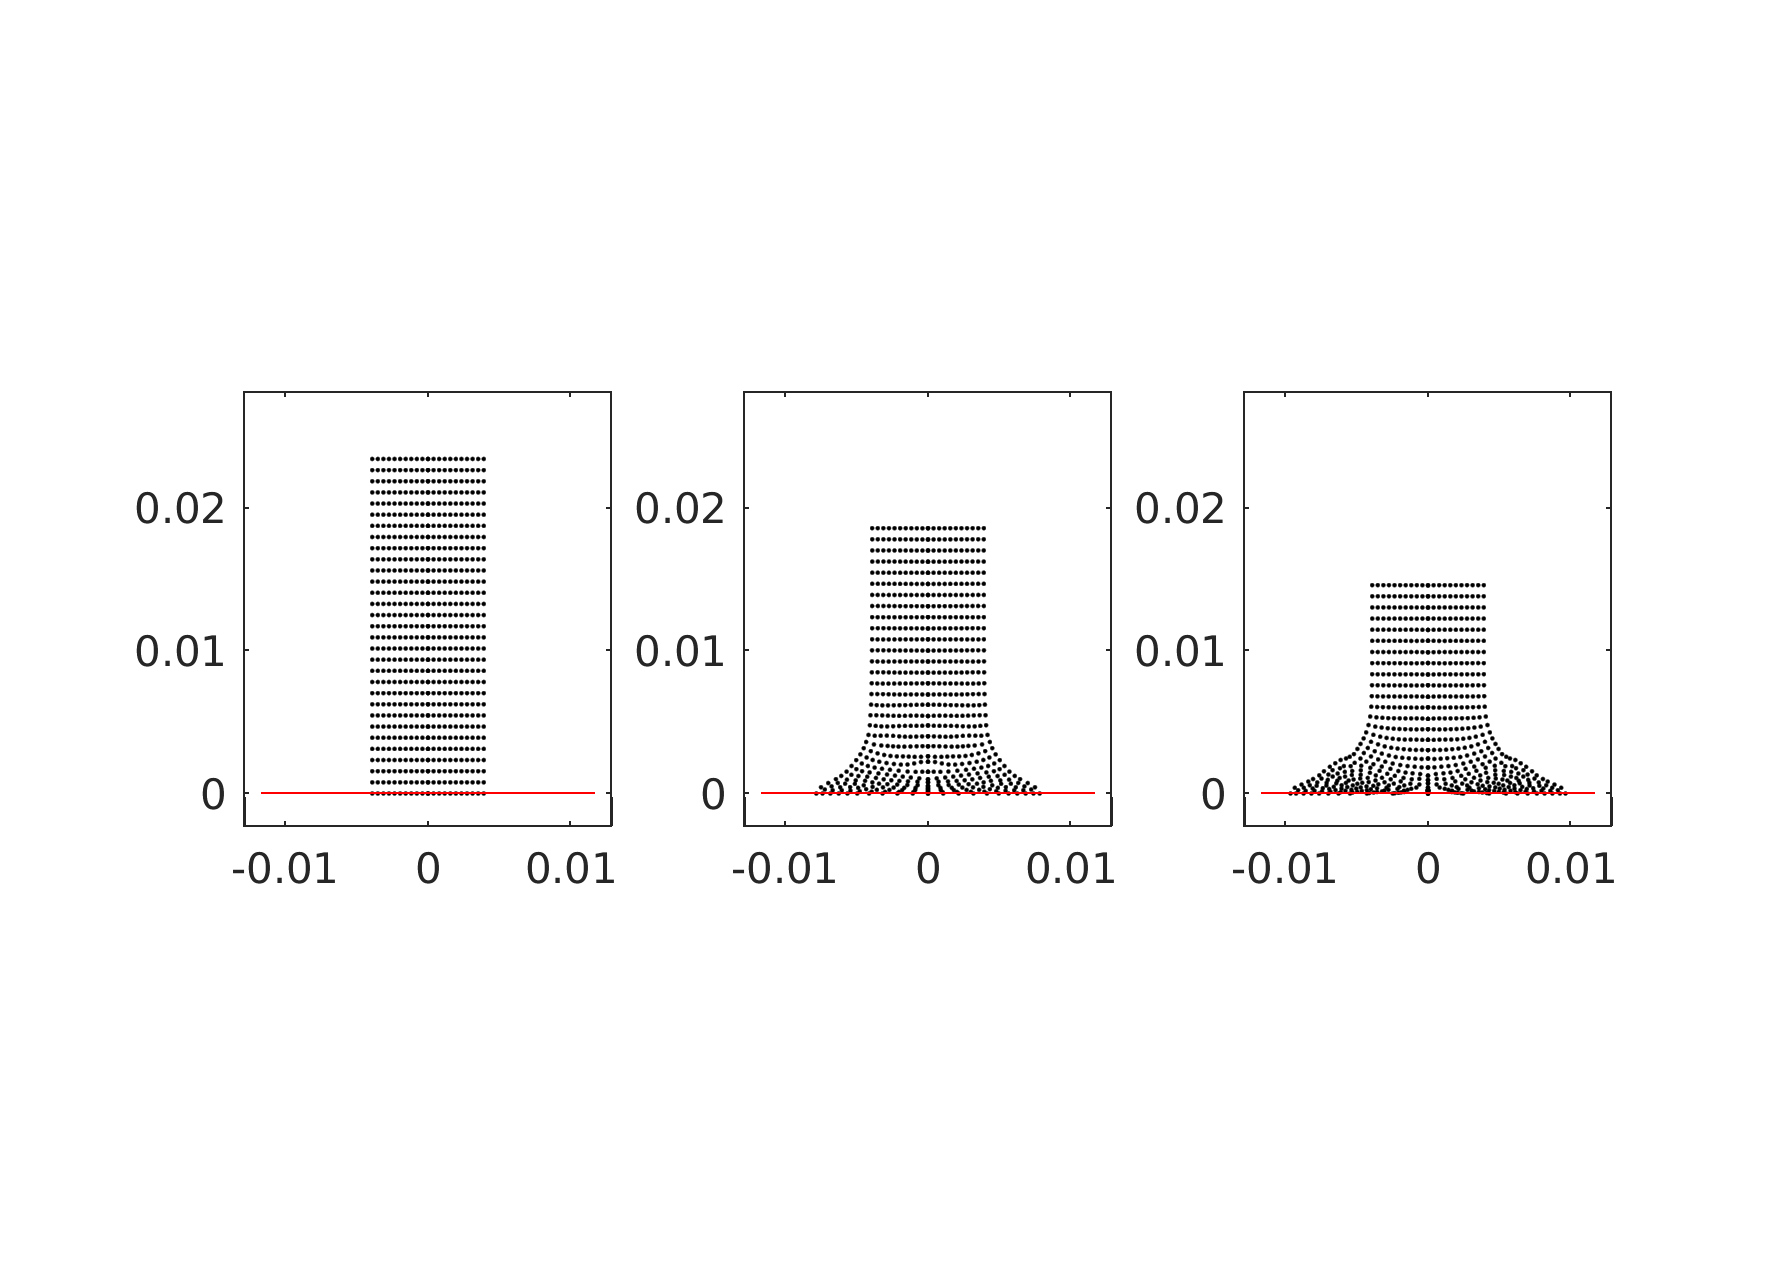
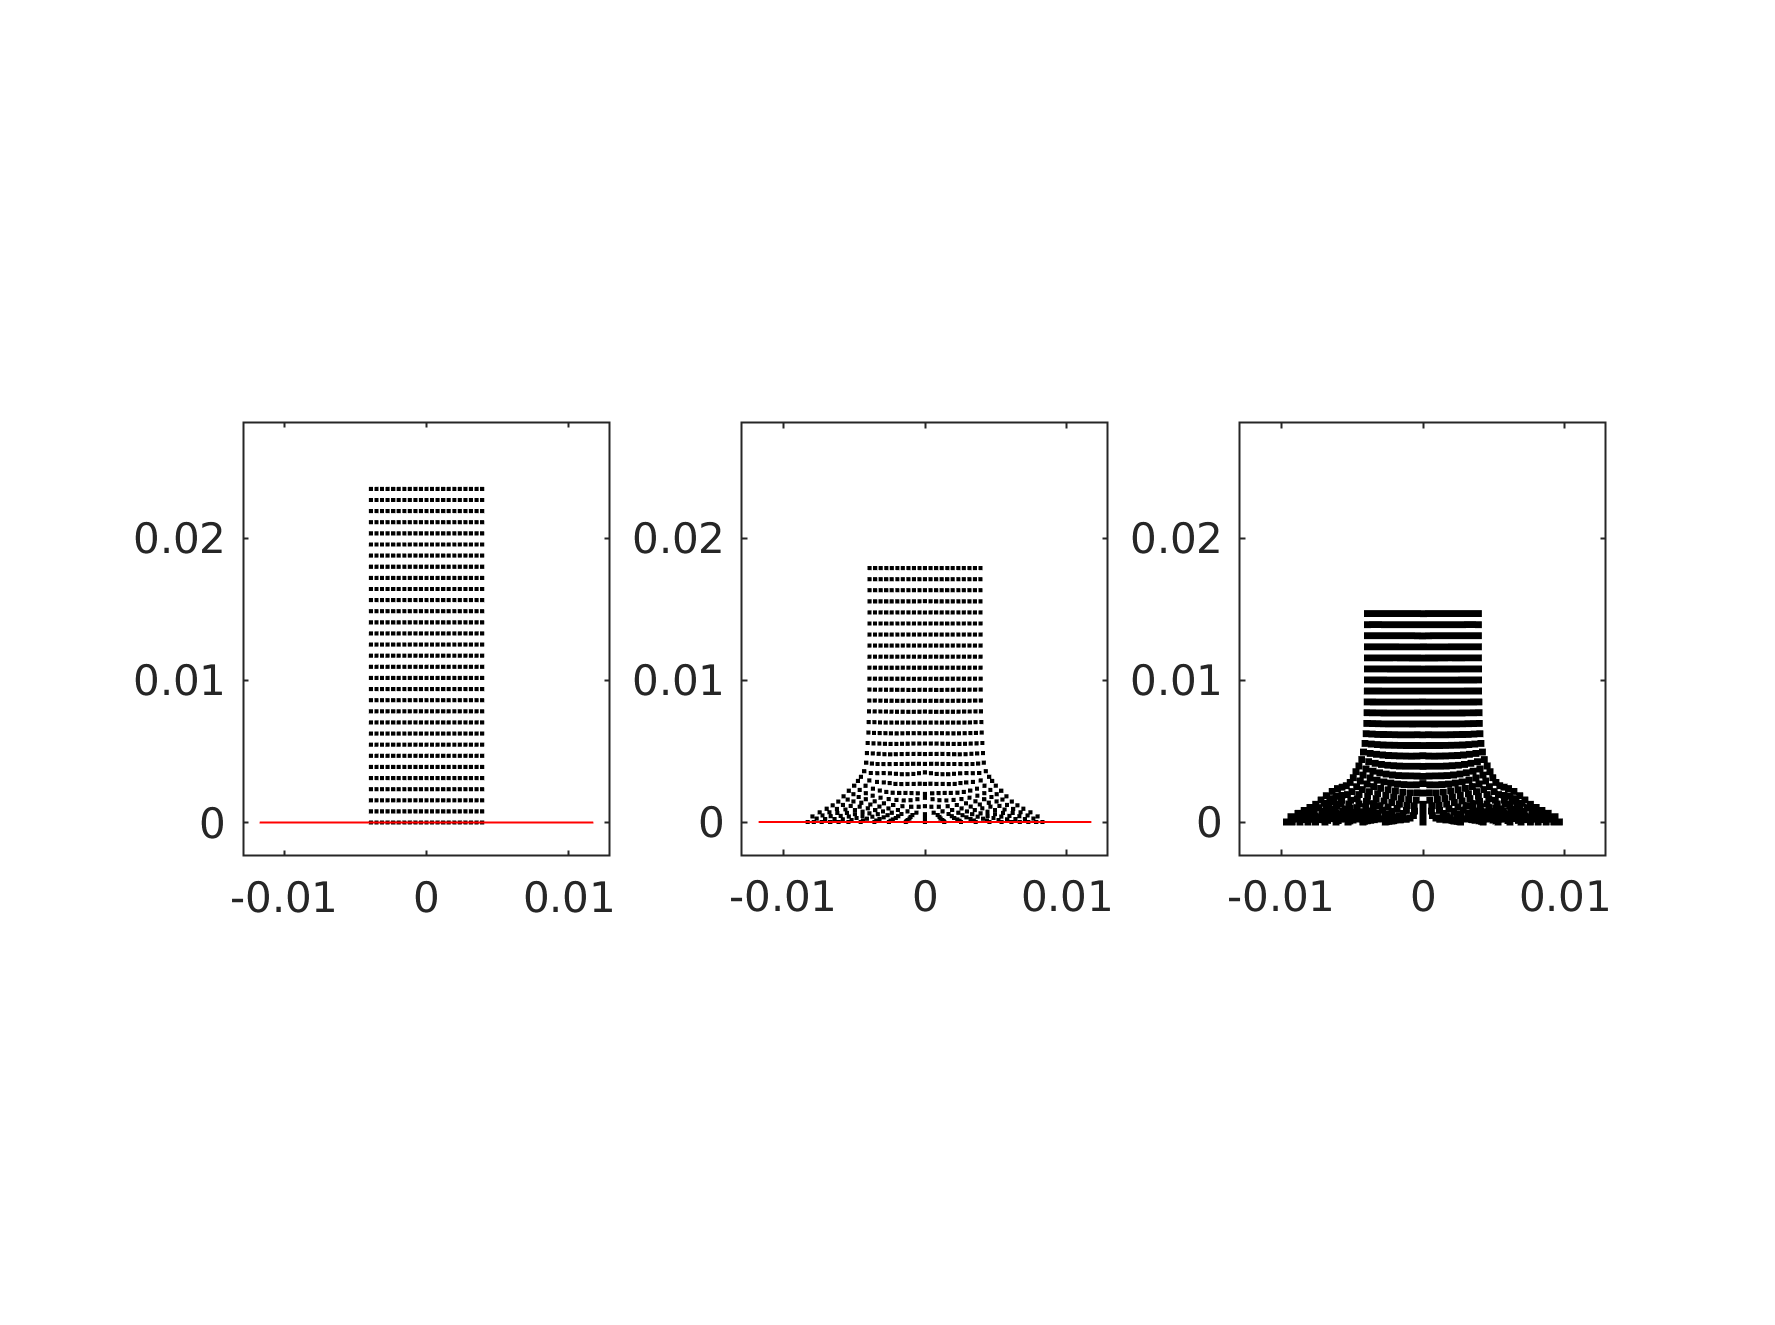
new problems

diff --git a/problems/taylor_bar/taylor_bar.c b/problems/taylor_bar/taylor_bar.c
@@ -55,17 +55,21 @@ const double tMax = 10;
 double deltaT = 1e-11;
 
 // Meshfree
-const double dmax = 4;
-const int constant_support_size = 1;
+const double dmax = 2.5;
+const int constant_support_size = 0;
 const int is_stabalised = 0;
 char * basis_type = "linear";
 char * weight = "cubic";
-char * kernel_shape = "radial";
+char * kernel_shape = "rectangular";
 
-
+const double dmax_x = 1.5;
+const double dmax_y = 1.5;
 
 // writing files
-const int  writeFreq = 2000;
+const int  writeFreq = 200;
+
+double R_X = 3*0.000521;
+double R_Y  = 3*0.000782;
 
 
 char * MATERIAL_NAME = "J2";
@@ -141,16 +145,23 @@ int main(int argc, char** argv) {
 
 	// shape function parameters
 	VEC * dI = v_get(xI->m);
-
+	double * dmax_tensor = malloc(2*sizeof(double));
+	dmax_tensor[0] = dmax_x;
+	dmax_tensor[1] = dmax_y;
 	// meshfree domain
 	meshfreeDomain mfree = {.nodes = xI, .di = dI, .num_nodes = xI->m, .dim = dim, .IS_AXI = is_AXI,
-		.weight_function = weight, .kernel_shape = kernel_shape, 
+		.weight_function = weight, .kernel_shape = kernel_shape, .dmax_tensor = dmax_tensor,
 		.basis_type = basis_type,.is_constant_support_size = constant_support_size,
 		.dmax_radial = dmax};
 	
 	setDomain(&mfree);
 
+	for ( int i = 0 ; i < mfree.num_nodes ;i++)
+	{
+		mfree.di_tensor->me[i][0] = R_X;
+		mfree.di_tensor->me[i][1] = R_Y;
 
+	}
 	
 	/* ------------------------------------------*/
 	/* ------------------SCNI--------------------*/
@@ -496,7 +507,28 @@ int main(int argc, char** argv) {
 			char filename[50];
 			snprintf(filename, 50, "displacement_%d%s",fileCounter,".txt");
 			mat2csv(updatedNodes,"./Displacement",filename);
-			fileCounter++;	
+
+			snprintf(filename, 50, "MaterialPoints/material_%d%s",fileCounter,".csv");
+
+			fp = fopen(filename,"w");
+				fprintf(fp,"x,y,z,s11,s22,s12,DEPS\n");
+
+			for (int i = 0 ; i < numnodes ; i++)
+			{
+				double s11 = state_n_1[i]->sigma->me[0][0];
+				double s22 = state_n_1[i]->sigma->me[1][1];
+				double s12 =state_n_1[i]->sigma->me[0][0];
+				double DEPS = state_n_1[i]->Deps;
+
+
+			fprintf(fp,"%lf,%lf,%lf,%lf,%lf,%lf,%lf\n",updatedNodes->me[i][0],updatedNodes->me[i][1],0.00,
+			s11,s22,s12,DEPS
+			);
+
+			}
+			fclose(fp);
+
+			fileCounter++;
 
 		}
 		/* ------------------------------------------*/

diff --git a/MFREEX/src/Material/Plasticity/j2_plasticity.c b/MFREEX/src/Material/Plasticity/j2_plasticity.c
@@ -23,6 +23,8 @@ int j2_plasticity(state_variables * stateNew, state_variables * stateOld, VEC * 
 	double mu = params->ve[1];
 	double sigma_yield = params->ve[2];
 
+	int dim = stateNew->d->m;
+
 	// Initial variables
 	MAT * d_n_1 = stateNew->d;
 	MAT * sigma_n_1_t = stateNew->m_temp1;
@@ -98,6 +100,10 @@ int j2_plasticity(state_variables * stateNew, state_variables * stateOld, VEC * 
 		m_sub(sigma_n_1_t,delta_sigma,sigma_n_1);
 
 		// Find increment in plastic strain
+
+		stateNew->Deps += delta_gamma * ROOT_2_OVER_3;
+
+
 
 			// Find deviatoric trial stress
 		double trace_sigma= sigma_n_1->me[0][0]+sigma_n_1->me[1][1] + sigma_n_1->me[2][2];

diff --git a/matlab/taylor_bar/Processing_graph.m b/matlab/taylor_bar/Processing_graph.m
@@ -1,0 +1,40 @@
+clear all
+close all 
+
+path = './../../build/bin/taylor_bar/Displacement';
+
+addpath(path)
+displacementdir = path ;
+d = dir(displacementdir);
+d1 = dir([displacementdir,'*.txt']);
+numFiles = size(d,1) -3 ;
+
+plotFiles = ceil(linspace(1,numFiles,30));
+A = [];
+t_max = 0.000051*10^6;
+figure
+for i = 1:length(plotFiles)
+    
+    
+% second plot
+filename = strcat(path,'/displacement_',num2str(plotFiles(i)),'.txt');
+disp = csvread(filename);
+
+y = max(disp(:,1))*100;
+
+
+t = (t_max/(length(plotFiles)-1))*(i-1);
+
+A = [A;t,y];
+
+
+
+
+hold on
+plot(t,y,'b.');
+
+
+  
+end
+
+xlim([0,t_max])

diff --git a/matlab/taylor_bar/Processing.m b/matlab/taylor_bar/Processing.m
@@ -64,13 +64,13 @@ disp = csvread(filename);
 
 
 subplot(1,3,3)       % add first plot in 2 x 2 grid
-plot(disp(:,1),disp(:,2),'k.','markersize',3)           % line plot
+plot(disp(:,1),disp(:,2),'k.','markersize',5)           % line plot
 
 hold on
-plot(-disp(:,1), disp(:,2),'k.','markersize',3);
+plot(-disp(:,1), disp(:,2),'k.','markersize',5);
 
 hold on
-plot([-plate_width,plate_width],[0,0],'r-');
+%plot([-plate_width,plate_width],[0,0],'r-');
 axis equal
 ylim([min_Y - 0.1*max_Y,1.2*max_Y])
 xlim([-plate_width - 0.1*plate_width,plate_width + 0.1*plate_width])
